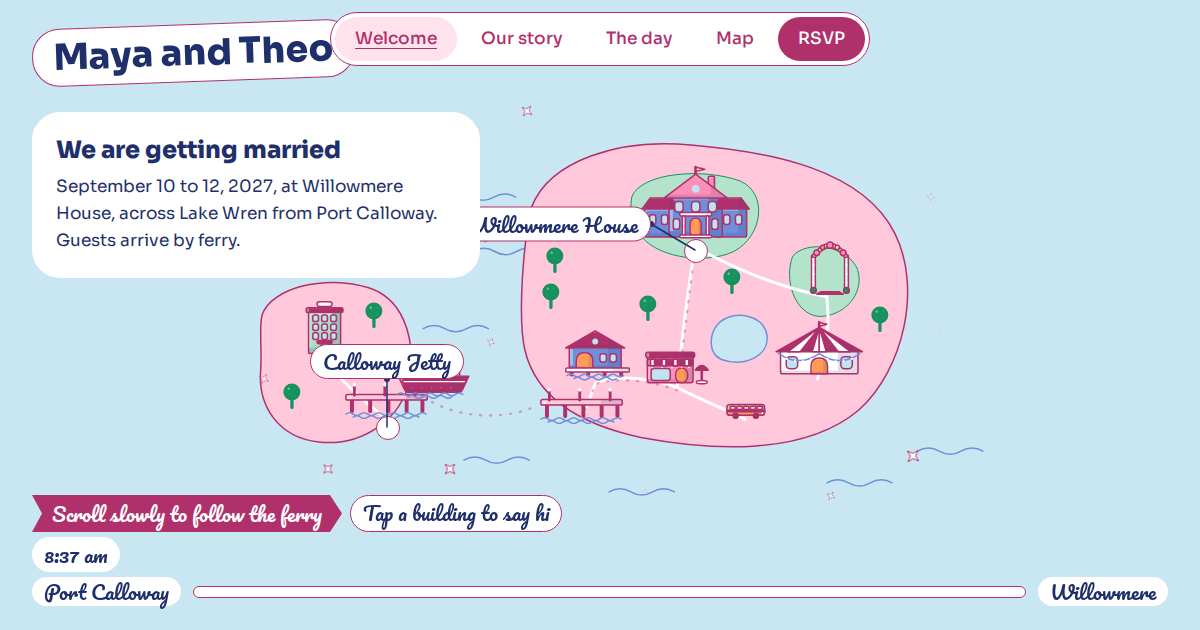
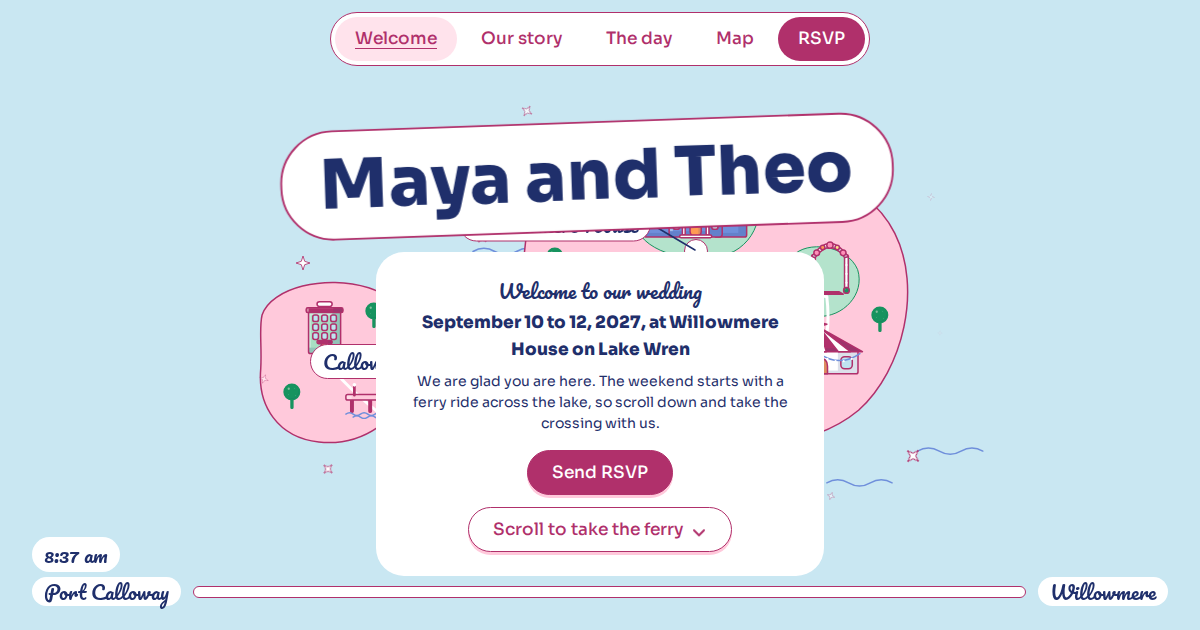
Add welcome beat to the hero and fix invisible RSVP button text

diff --git a/src/features/journey/Journey.tsx b/src/features/journey/Journey.tsx
@@ -33,6 +33,9 @@ function useSize<T extends HTMLElement>() {
 const linkBtn =
   'inline-flex min-h-11 items-center rounded-pill border-hair border-accent bg-paper px-6 py-2 font-medium text-accent shadow-press transition duration-micro ease-standard hover:bg-accent hover:text-paper active:translate-y-0.5 active:shadow-press-down'
 
+const primaryBtn =
+  'inline-flex min-h-11 items-center rounded-pill border-hair border-accent bg-accent px-6 py-2 font-medium text-paper shadow-press transition duration-micro ease-standard hover:bg-ink active:translate-y-0.5 active:shadow-press-down'
+
 const sparkColors = ['var(--color-glow)', 'var(--color-paper)', 'var(--color-land-strong)', 'var(--color-flag)']
 
 /** Twinkles on the water, as [x, y, delay, duration, size], in map units. Scroll-independent, so the lake always feels alive. */
@@ -98,6 +101,22 @@ export default function Journey({ event, journey }: JourneyProps) {
     return () => io.disconnect()
   }, [stageRef])
   const p = reduced ? 1 : scrolled
+  // Welcome beat: the names start large in the middle of the stage and settle into the corner as the journey begins.
+  const titleRef = useRef<HTMLDivElement>(null)
+  const [anchor, setAnchor] = useState({ dx: 0, dy: 0, s: 1, bh: 0, cy: 0 })
+  useLayoutEffect(() => {
+    const el = titleRef.current
+    if (!el || reduced) return
+    const bw = el.offsetWidth
+    const bh = el.offsetHeight
+    const s = Math.min(1.9, (size.w * 0.88) / bw)
+    const cy = size.h * 0.28
+    setAnchor({ dx: size.w / 2 - (el.offsetLeft + bw / 2), dy: cy - (el.offsetTop + bh / 2), s, bh, cy })
+  }, [size.w, size.h, reduced])
+  const settle = reduced ? 1 : ease(progressIn(p, 0.04, 0.13))
+  const welcomeOut = reduced ? 1 : progressIn(p, 0.012, 0.06)
+  const Title = reduced ? 'p' : 'h1'
+  const scrollOn = () => window.scrollBy({ top: window.innerHeight * 0.9, behavior: reduced ? 'auto' : 'smooth' })
   const [avatar] = useAvatar()
 
   const [lifted, setLifted] = useState<string | null>(null)
@@ -191,18 +210,37 @@ export default function Journey({ event, journey }: JourneyProps) {
 
   return (
     <>
+      {reduced && (
+        <section aria-label="Welcome" className="mx-auto max-w-measure px-4 pt-28 pb-6 text-center">
+          <h1 className="font-display text-h1 font-extrabold">{event.copy.journeyTitle}</h1>
+          <p className="mt-2 font-hand text-label">{event.copy.welcomeKicker}</p>
+          <p className="mt-1 font-display text-h3 font-extrabold">{event.copy.journeyDate}</p>
+          <p className="mt-2">{event.copy.welcomeLine}</p>
+          <p className="mt-4">
+            <a href="#/rsvp" className={primaryBtn}>
+              {event.copy.ctaRsvp}
+            </a>
+          </p>
+        </section>
+      )}
+
       <section
         ref={sectionRef}
         aria-label="The journey from Port Calloway to Willowmere"
         className="relative"
         style={reduced ? undefined : { height: `${journey.scrollVh}vh` }}
       >
-        <a
-          href="#journey-end"
-          className="fixed top-2 left-2 z-50 -translate-y-24 rounded-pill bg-paper px-5 py-2 font-medium text-accent focus:translate-y-0"
+        <button
+          type="button"
+          onClick={() => {
+            const end = document.getElementById('journey-end')
+            end?.focus()
+            end?.scrollIntoView()
+          }}
+          className="fixed top-2 left-2 z-50 -translate-y-24 cursor-pointer rounded-pill bg-paper px-5 py-2 font-medium text-accent focus:translate-y-0"
         >
           {event.copy.journeySkip}
-        </a>
+        </button>
         <div id="journey-end" tabIndex={-1} className="absolute left-0 h-px w-px" style={{ top: reduced ? '0' : 'calc(100% - 100svh + 6rem)' }} />
 
         <div
@@ -322,16 +360,43 @@ export default function Journey({ event, journey }: JourneyProps) {
             {announce}
           </p>
 
-          <div className="pointer-events-none absolute top-20 left-4 sm:top-6 sm:left-8">
-            <h1 className="inline-block -rotate-2 rounded-panel border-hair border-accent bg-paper px-5 py-2 font-display text-h2 font-extrabold">
+          <div
+            ref={titleRef}
+            className="pointer-events-none absolute top-20 left-4 origin-center will-change-transform sm:top-6 sm:left-8"
+            style={reduced ? undefined : { transform: `translate(${anchor.dx * (1 - settle)}px, ${anchor.dy * (1 - settle)}px) scale(${1 + (anchor.s - 1) * (1 - settle)})` }}
+          >
+            <Title className="inline-block -rotate-2 rounded-panel border-hair border-accent bg-paper px-5 py-2 font-display text-h2 font-extrabold">
               {event.copy.journeyTitle}
-            </h1>
+            </Title>
           </div>
+
+          {!reduced && (
+            <div
+              inert={welcomeOut > 0.95}
+              className="absolute left-1/2 w-11/12 max-w-md -translate-x-1/2 rounded-panel bg-paper p-5 text-center sm:p-6"
+              style={{ top: anchor.cy + (anchor.bh * anchor.s) / 2 + 20, opacity: 1 - welcomeOut, pointerEvents: welcomeOut > 0.5 ? 'none' : undefined }}
+            >
+              <p className="font-hand text-label">{event.copy.welcomeKicker}</p>
+              <p className="mt-1 font-display text-body font-extrabold">{event.copy.journeyDate}</p>
+              <p className="mt-2 text-small">{event.copy.welcomeLine}</p>
+              <div className="mt-4 flex flex-wrap items-center justify-center gap-3">
+                <a href="#/rsvp" className={primaryBtn}>
+                  {event.copy.ctaRsvp}
+                </a>
+                <button type="button" onClick={scrollOn} className={linkBtn}>
+                  {event.copy.welcomeCue}
+                  <svg className="cue-bob ml-2" width="16" height="16" viewBox="0 0 16 16" aria-hidden="true">
+                    <path d="M3 6 L8 11 L13 6" fill="none" stroke="currentColor" strokeWidth="2" strokeLinecap="round" strokeLinejoin="round" />
+                  </svg>
+                </button>
+              </div>
+            </div>
+          )}
 
           <div className="absolute inset-x-4 bottom-32 sm:inset-x-auto sm:top-28 sm:bottom-auto sm:left-8 sm:w-112">
             <div className="relative min-h-40">
               {journey.chapters.map((c) => {
-                const on = c === active
+                const on = c === active && !(c === journey.chapters[0] && p < 0.1)
                 return (
                   <div
                     key={c.title}
@@ -357,9 +422,8 @@ export default function Journey({ event, journey }: JourneyProps) {
           </div>
 
           <div className="pointer-events-none absolute inset-x-4 bottom-4 space-y-2 sm:inset-x-8 sm:bottom-6">
-            {!reduced && p < 0.08 && (
-              <div className="flex flex-wrap gap-2">
-                <LabelTag variant="flag">Scroll slowly to follow the ferry</LabelTag>
+            {!reduced && p > 0.06 && p < 0.2 && (
+              <div className="hidden flex-wrap gap-2 sm:flex">
                 <LabelTag>Tap a building to say hi</LabelTag>
               </div>
             )}

diff --git a/src/data/events/wedding.ts b/src/data/events/wedding.ts
@@ -68,8 +68,8 @@ export const wedding: EventConfig = {
       {
         from: 0,
         to: 0.14,
-        title: 'We are getting married',
-        body: 'September 10 to 12, 2027, at Willowmere House, across Lake Wren from Port Calloway. Guests arrive by ferry.',
+        title: 'How you get here',
+        body: 'Guests cross Lake Wren by ferry, from Port Calloway to Willowmere House. We drew the trip so you can see it before you make it.',
       },
       { from: 0.14, to: 0.29, title: 'Across the water', body: 'Port Calloway is where the ferry leaves. The guest hotel is a five-minute walk away.' },
       {
@@ -456,7 +456,10 @@ export const wedding: EventConfig = {
     mapTitle: 'The weekend map',
     journeyTitle: 'Maya and Theo',
     journeySkip: 'Skip to the date and the weekend map',
-    journeyDate: 'Willowmere, September 10 to 12, 2027',
+    journeyDate: 'September 10 to 12, 2027, at Willowmere House on Lake Wren',
+    welcomeKicker: 'Welcome to our wedding',
+    welcomeLine: 'We are glad you are here. The weekend starts with a ferry ride across the lake, so scroll down and take the crossing with us.',
+    welcomeCue: 'Scroll to take the ferry',
     journeyIntro: 'We are getting married at Willowmere House, across Lake Wren from Port Calloway. Guests arrive by ferry. Scroll to take the trip, or go straight to the map.',
     ctaFollow: 'Follow the ferry',
     ctaRsvp: 'Send RSVP',

diff --git a/src/features/walk/StationContent.tsx b/src/features/walk/StationContent.tsx
@@ -6,6 +6,9 @@ import { dayKey, formatDay, formatMinutes, minutesOfDay } from '../../lib/time.t
 const linkBtn =
   'inline-flex min-h-11 items-center rounded-pill border-hair border-accent bg-paper px-6 py-2 font-medium text-accent shadow-press transition duration-micro ease-standard hover:bg-accent hover:text-paper active:translate-y-0.5 active:shadow-press-down'
 
+const primaryBtn =
+  'inline-flex min-h-11 items-center rounded-pill border-hair border-accent bg-accent px-6 py-2 font-medium text-paper shadow-press transition duration-micro ease-standard hover:bg-ink active:translate-y-0.5 active:shadow-press-down'
+
 const modeLabel = { walk: 'Walk', ferry: 'Ferry', shuttle: 'Shuttle', bike: 'Bike', courier: 'Courier' } as const
 
 function Schedule({ event, items }: { event: EventConfig; items: ScheduleItem[] }) {
@@ -130,7 +133,7 @@ export default function StationContent({ event, station }: { event: EventConfig;
           <p className="max-w-measure font-medium">{event.copy.rsvpTitle}</p>
           <p className="max-w-measure text-small">{event.copy.rsvpIntro}</p>
           <p>
-            <a href="#/rsvp" className={`${linkBtn} bg-accent text-paper hover:bg-ink`}>
+            <a href="#/rsvp" className={primaryBtn}>
               {event.copy.ctaRsvp}
             </a>
           </p>

diff --git a/src/index.css b/src/index.css
@@ -392,3 +392,14 @@
 .sample-text::before {
   content: attr(data-sample);
 }
+
+/* Small bounce on the scroll cue. Off for reduced motion. */
+@media (prefers-reduced-motion: no-preference) {
+  .cue-bob {
+    animation: cue-bob 1.6s ease-in-out infinite;
+  }
+}
+@keyframes cue-bob {
+  0%, 100% { transform: translateY(0); }
+  50% { transform: translateY(3px); }
+}
